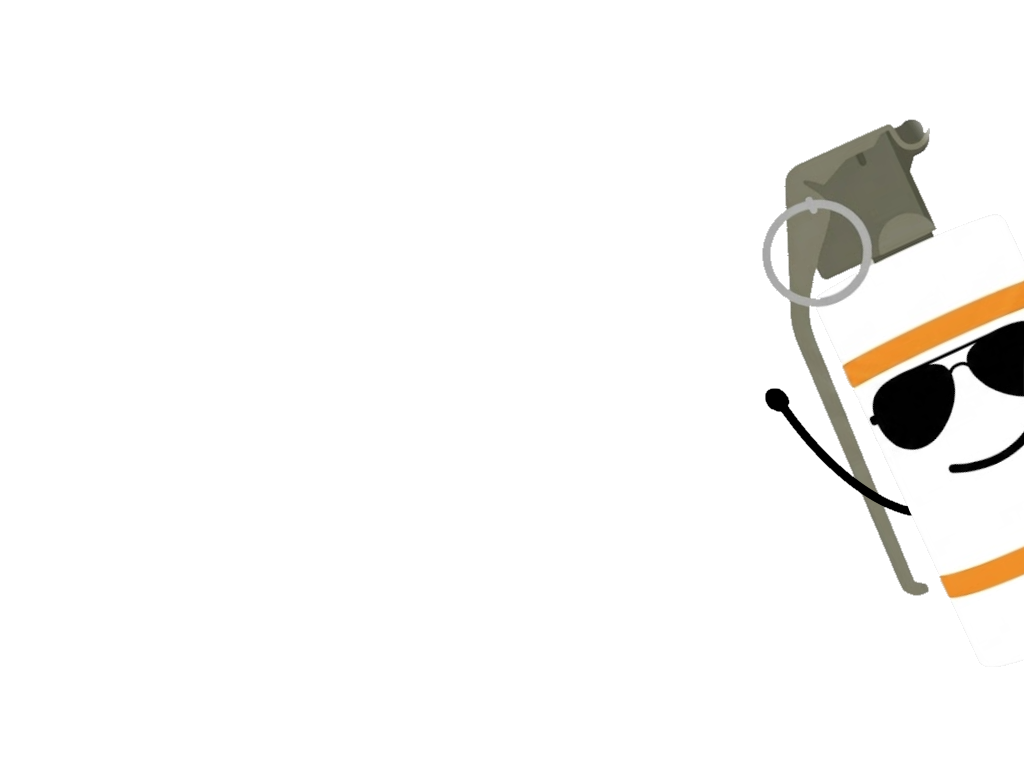
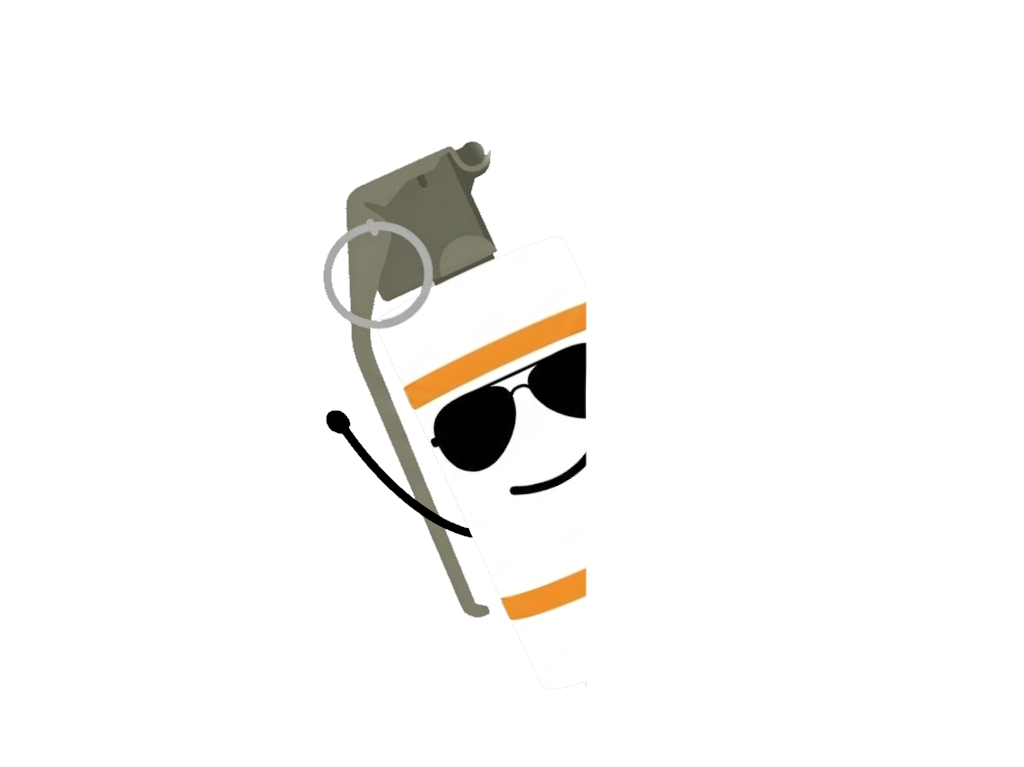
release smoke

diff --git a/public/profile.html b/public/profile.html
@@ -37,7 +37,7 @@
     </div>
 </header>
 
-<!-- Не авторизован -->
+
 <div id="authGateProfile" style="display:none; text-align:center; padding:100px 20px;">
     <div style="font-size:56px; margin-bottom:20px;">🔒</div>
     <h2 style="font-family:'Montserrat',sans-serif;font-weight:800;font-size:22px;margin-bottom:12px;text-transform:uppercase;">Нужна авторизация</h2>
@@ -48,17 +48,17 @@
     </a>
 </div>
 
-<!-- Загрузка -->
+
 <div id="profileLoading" style="text-align:center;padding:100px 20px;">
     <div class="spinner"></div>
     <p style="color:var(--text-gray);margin-top:8px;">Загрузка профиля...</p>
 </div>
 
-<!-- Основной контент -->
+
 <div id="profileContent" style="display:none;">
     <div class="container">
 
-        <!-- Карточка профиля -->
+        
         <div class="profile-header-card">
             <img id="profileAvatar" src="" alt="" class="profile-avatar-large" onerror="this.style.display='none'">
             <div style="flex:1;min-width:0;">
@@ -70,7 +70,7 @@
             </div>
         </div>
 
-        <!-- Табы -->
+        
         <div class="profile-tabs">
             <button class="profile-tab-btn active" data-tab="team">⚔ Команда</button>
             <button class="profile-tab-btn" data-tab="friends">
@@ -83,7 +83,7 @@
             </button>
         </div>
 
-        <!-- ═══ ТАБ: КОМАНДА ═══════════════════════════════════════════════ -->
+        
         <div class="profile-tab-content active" id="tab-team">
 
             <div id="noTeamState" class="no-team-state" style="display:none;">
@@ -94,7 +94,7 @@
 
             <div id="teamContent" style="display:none;">
 
-                <!-- Шапка команды -->
+                
                 <div class="team-card-header">
                     <div class="team-logo-circle" id="teamLogoEl"></div>
                     <div>
@@ -103,7 +103,7 @@
                     </div>
                 </div>
 
-                <!-- Основной состав -->
+                
                 <div class="roster-block">
                     <div class="roster-block-title">
                         <span>⚔ Основной состав</span>
@@ -112,7 +112,7 @@
                     <div id="mainRosterList"></div>
                 </div>
 
-                <!-- Замены -->
+                
                 <div class="roster-block">
                     <div class="roster-block-title">
                         <span>🔄 Замены</span>
@@ -121,14 +121,14 @@
                     <div id="subRosterList"></div>
                 </div>
 
-                <!-- Кнопки капитана -->
+                
                 <div id="captainActions" class="team-action-bar" style="display:none;">
                     <button class="btn-team-settings" onclick="openTeamSettingsModal()">⚙ Настройки команды</button>
                     <button class="btn-team-settings" id="captainSelfRoleBtn" style="background:rgba(91,141,232,0.1);border-color:rgba(91,141,232,0.3);color:#5b8de8;">🔄 Сменить роль</button>
                     <button class="btn-team-danger"   onclick="confirmDeleteTeam()">💀 Распустить команду</button>
                 </div>
 
-                <!-- Кнопки участника -->
+                
                 <div id="memberActions" class="team-action-bar" style="display:none;">
                     <button class="btn-team-danger" onclick="confirmLeaveTeam()">🚪 Покинуть команду</button>
                 </div>
@@ -136,7 +136,7 @@
             </div>
         </div>
 
-        <!-- ═══ ТАБ: ДРУЗЬЯ ════════════════════════════════════════════════ -->
+        
         <div class="profile-tab-content" id="tab-friends">
 
             <div class="friend-search-bar">
@@ -150,7 +150,7 @@
             <div id="friendsList"></div>
         </div>
 
-        <!-- ═══ ТАБ: УВЕДОМЛЕНИЯ ═══════════════════════════════════════════ -->
+        
         <div class="profile-tab-content" id="tab-notifs">
             <div id="notifsList"></div>
         </div>
@@ -158,9 +158,7 @@
     </div>
 </div>
 
-<!-- ═══════════════ МОДАЛЬНЫЕ ОКНА ══════════════════════════════════════════ -->
 
-<!-- Настройки команды -->
 <div id="teamSettingsModal" class="p-modal-overlay p-modal-hidden">
     <div class="p-modal-panel">
         <div class="p-modal-header">
@@ -193,7 +191,7 @@
     </div>
 </div>
 
-<!-- Пригласить в команду -->
+
 <div id="inviteModal" class="p-modal-overlay p-modal-hidden">
     <div class="p-modal-panel">
         <div class="p-modal-header">
@@ -213,7 +211,7 @@
     </div>
 </div>
 
-<!-- Подтверждение: распустить -->
+
 <div id="confirmDeleteModal" class="p-modal-overlay p-modal-hidden">
     <div class="p-modal-panel">
         <div class="p-modal-header">
@@ -233,7 +231,7 @@
     </div>
 </div>
 
-<!-- Модал управления участником команды -->
+
 <div id="memberModal" class="p-modal-overlay p-modal-hidden">
     <div class="p-modal-panel">
         <div class="p-modal-header">
@@ -301,7 +299,7 @@
 
 <script src="script.js" defer></script>
 
-<!-- Плавающая кнопка помощи -->
+
 <button
     id="profileHelpBtn"
     onclick="document.getElementById('profileHelpModal').classList.remove('p-modal-hidden');document.body.style.overflow='hidden';"
@@ -319,24 +317,20 @@
     Инструкция
 </button>
 
-<!-- Модал инструкций — с маскотом -->
+
 <div id="profileHelpModal" class="p-modal-overlay p-modal-hidden">
 
-    <!--
-        Обёртка нужна чтобы маскот позиционировался
-        относительно модального окна, а не всего экрана.
-        overflow:visible позволяет маскоту вылезти за пределы обёртки.
-    -->
+    
     <div style="position:relative; display:flex; align-items:flex-end;">
 
-        <!-- Маскот — выглядывает из-за левого края модалки -->
+        
         <img
     src="assets/smoke-mascot.png"
     alt="Smoke Mascot"
     style="
         position: absolute;
         top: 10px;
-        left: -500px;
+        left: -285px;
         width: 500px;
         z-index: 0;
         pointer-events: none;
@@ -346,7 +340,7 @@
     "
 >
 
-        <!-- Само модальное окно — поверх маскота -->
+        
         <div class="p-modal-panel" style="max-width:560px;max-height:90vh;overflow-y:auto;position:relative;z-index:1;">
             <div class="p-modal-header">
                 <span class="p-modal-title">📖 Инструкция для игроков</span>

diff --git a/models/TeamStat.js b/models/TeamStat.js
@@ -5,19 +5,19 @@ const teamStatSchema = new mongoose.Schema(
     teamId:      { type: mongoose.Schema.Types.ObjectId, ref: "Team", required: true },
     seasonId:    { type: mongoose.Schema.Types.ObjectId, ref: "Season", required: true },
 
-    pts:         { type: Number, default: 100 },   // стартовые 100 очков
+    pts:         { type: Number, default: 100 },   
     wins:        { type: Number, default: 0 },
     losses:      { type: Number, default: 0 },
     matches:     { type: Number, default: 0 },
-    roundDiff:   { type: Number, default: 0 },     // разница раундов
+    roundDiff:   { type: Number, default: 0 },     
 
-    winStreak:   { type: Number, default: 0 },     // текущая серия побед
-    isKingOfHill:{ type: Boolean, default: false }, // статус "Царь горы"
+    winStreak:   { type: Number, default: 0 },     
+    isKingOfHill:{ type: Boolean, default: false }, 
   },
   { timestamps: true }
 );
 
-// Уникальная пара: одна команда — один сезон
+
 teamStatSchema.index({ teamId: 1, seasonId: 1 }, { unique: true });
 
 module.exports = mongoose.model("TeamStat", teamStatSchema);

diff --git a/models/User.js b/models/User.js
@@ -9,16 +9,16 @@ const userSchema = new mongoose.Schema(
     rank:        { type: String, default: "Unranked" },
     teamId:      { type: mongoose.Schema.Types.ObjectId, ref: "Team", default: null },
 
-    // Список друзей
+    
     friends: [{ type: mongoose.Schema.Types.ObjectId, ref: "User" }],
 
-    // Входящие заявки в друзья
+    
     friendRequests: [{
       from:      { type: mongoose.Schema.Types.ObjectId, ref: "User", required: true },
       createdAt: { type: Date, default: Date.now }
     }],
 
-    // Уведомления от администрации
+   
     adminNotices: [{
       type:      { type: String, default: "custom" },
       message:   { type: String, default: "" },
@@ -28,7 +28,7 @@ const userSchema = new mongoose.Schema(
       createdAt: { type: Date, default: Date.now }
     }],
 
-    // Приглашения в команду
+    
     teamInvites: [{
       teamId:    { type: mongoose.Schema.Types.ObjectId, ref: "Team", required: true },
       from:      { type: mongoose.Schema.Types.ObjectId, ref: "User", required: true },

diff --git a/models/Team.js b/models/Team.js
@@ -7,8 +7,8 @@ const teamSchema = new mongoose.Schema(
     logo:      { type: String, default: "" },
     telegram:  { type: String, default: "" },
     captainId: { type: mongoose.Schema.Types.ObjectId, ref: "User", required: true },
-    members:   [{ type: mongoose.Schema.Types.ObjectId, ref: "User" }], // основной состав, макс 5
-    subs:      [{ type: mongoose.Schema.Types.ObjectId, ref: "User" }], // замены, макс 5
+    members:   [{ type: mongoose.Schema.Types.ObjectId, ref: "User" }], 
+    subs:      [{ type: mongoose.Schema.Types.ObjectId, ref: "User" }], 
   },
   { timestamps: true }
 );

diff --git a/models/Season.js b/models/Season.js
@@ -2,9 +2,9 @@ const mongoose = require("mongoose");
 
 const seasonSchema = new mongoose.Schema(
   {
-    name:     { type: String, required: true, trim: true },        // "Сезон 2 · 2026"
+    name:     { type: String, required: true, trim: true },        
     year:     { type: Number, required: true },
-    isActive: { type: Boolean, default: false },                   // только один активный
+    isActive: { type: Boolean, default: false },                   
   },
   { timestamps: true }
 );
